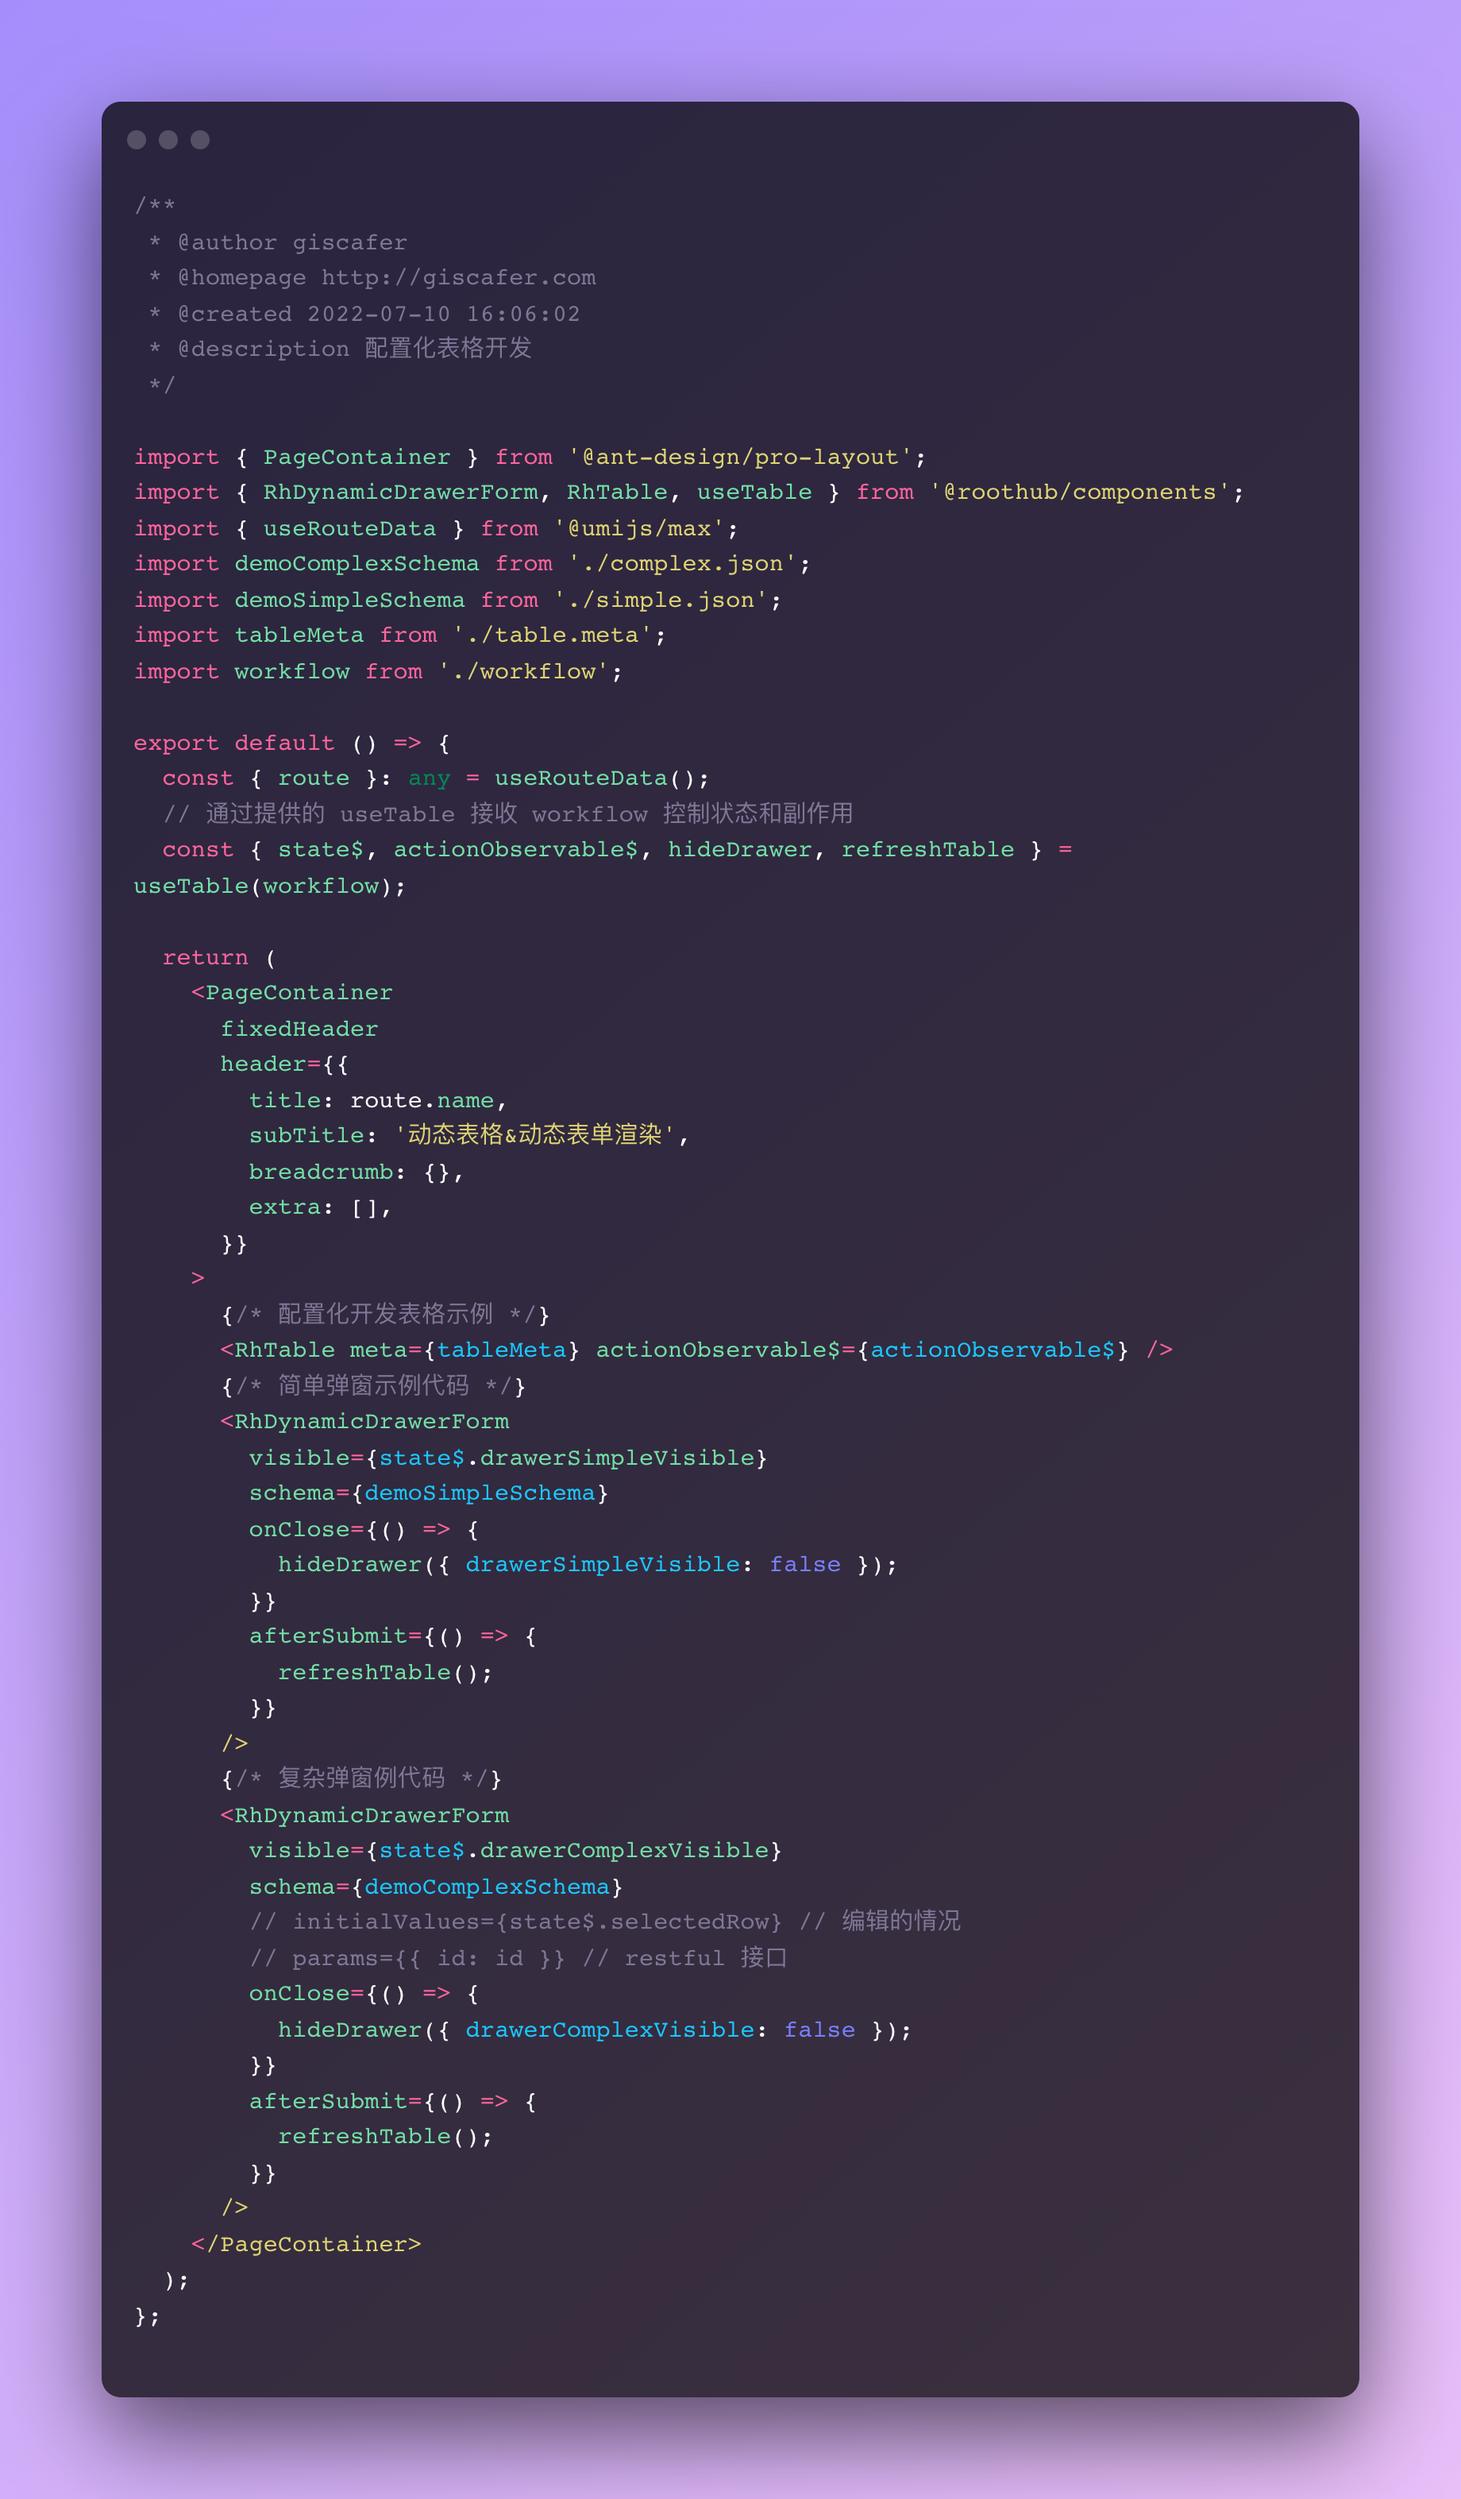
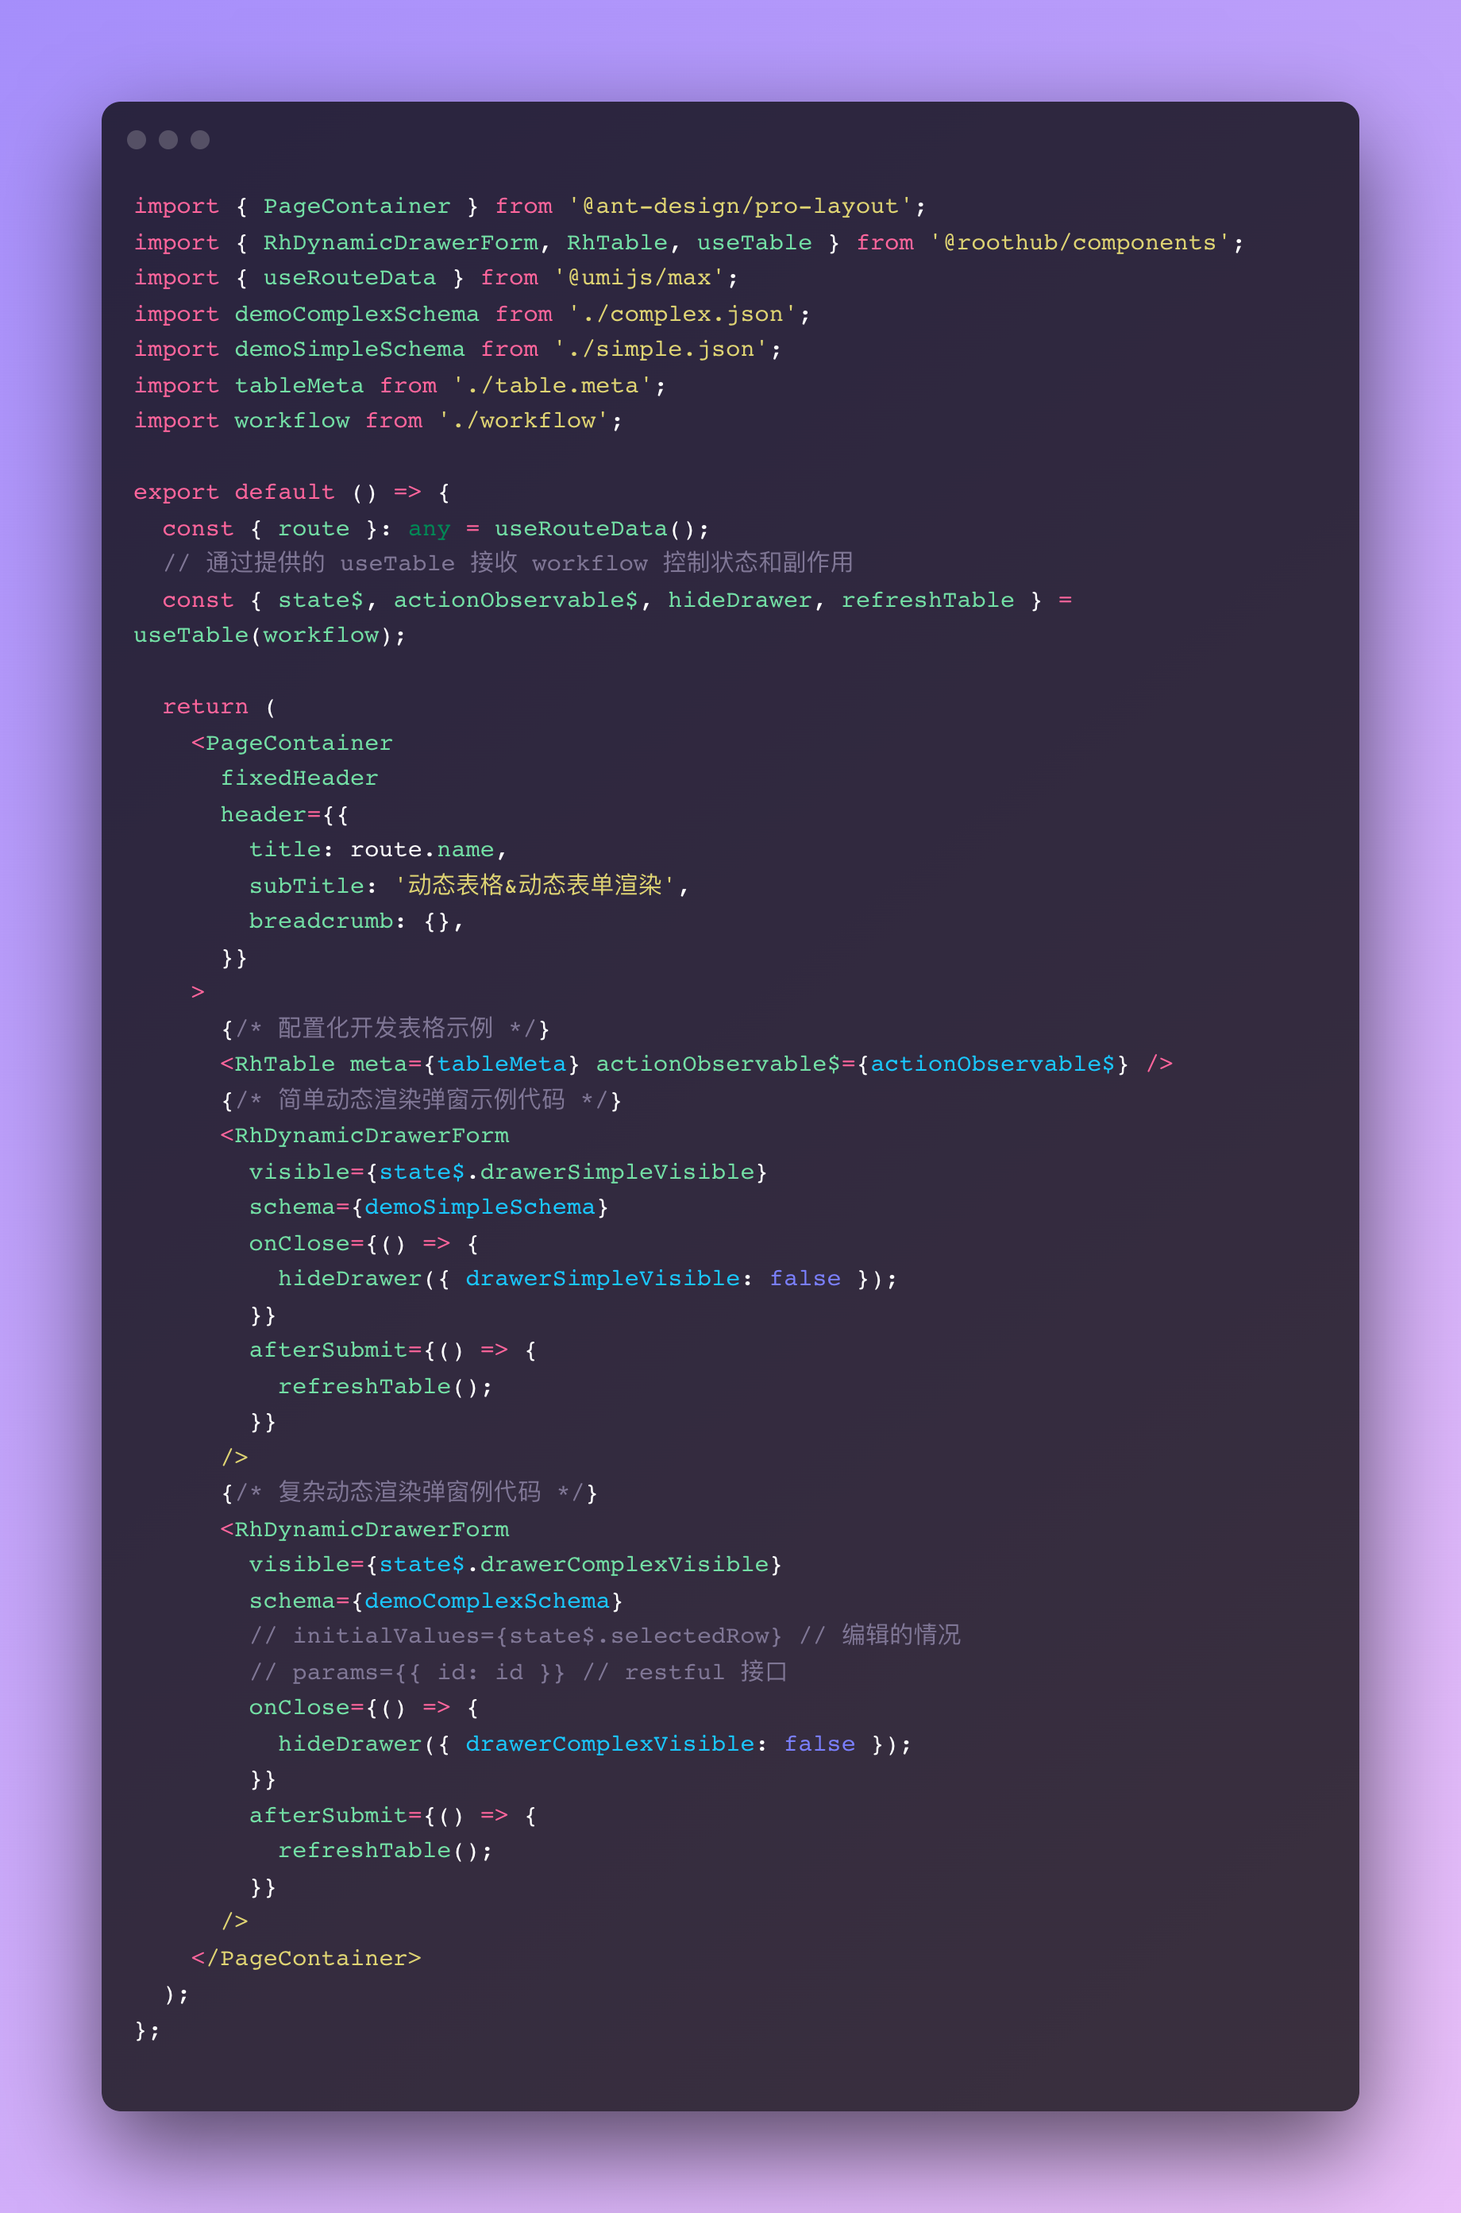
chore: docs

diff --git a/src/pages/table/meta/index.tsx b/src/pages/table/meta/index.tsx
@@ -25,12 +25,11 @@ export default () => {
         title: route.name,
         subTitle: '动态表格&动态表单渲染',
         breadcrumb: {},
-        extra: [],
       }}
     >
       {/* 配置化开发表格示例 */}
       <RhTable meta={tableMeta} actionObservable$={actionObservable$} />
-      {/* 简单弹窗示例代码 */}
+      {/* 简单动态渲染弹窗示例代码 */}
       <RhDynamicDrawerForm
         visible={state$.drawerSimpleVisible}
         schema={demoSimpleSchema}
@@ -41,7 +40,7 @@ export default () => {
           refreshTable();
         }}
       />
-      {/* 复杂弹窗例代码 */}
+      {/* 复杂动态渲染弹窗例代码 */}
       <RhDynamicDrawerForm
         visible={state$.drawerComplexVisible}
         schema={demoComplexSchema}

diff --git a/src/pages/table/meta/table.meta.ts b/src/pages/table/meta/table.meta.ts
@@ -73,14 +73,15 @@ const tableMeta: RhTableMeta = {
   optionActions: [
     {
       name: '外部链接',
-      action: 'view',
+      action: 'viewLink',
       link: '${html_url}', // 表示用row.html_url 赋值
       targetBlank: true,
     },
     {
-      name: '路由',
-      action: 'view',
-      link: '/dynamic/descriptions', // 如果要传参：'/dynamic/descriptions/${id}'，id 为当前row.id
+      name: '路由示例',
+      action: 'viewRoute',
+      // 传参场景举例：'/dynamic/descriptions/${id}'，id 为当前row.id
+      link: '/dynamic/descriptions',
     },
     { name: '复制', action: 'copy', isMore: true },
     { name: '删除', action: 'delete', isMore: true, danger: true },

diff --git a/README.md b/README.md
@@ -86,17 +86,17 @@ $ yarn dev
 - 在线 demo 页面：https://rh-umi.vercel.app/table/meta
 - 源码文件：https://github.com/giscafer/rh-template-umi/blob/main/src/pages/table/meta/index.tsx
 
-页面代码，逻辑和 UI 分离
+页面视图层代码，1、逻辑和 UI 分离；2、配置化开发表格，JSON 动态渲染表单（你没看错，整个页面就只有那么多 react tsx 代码）
 
 ![](./screenshots/page.png)
-
-workflow.ts 处理页面逻辑/副作用
-
-![](./screenshots/workflow.png)
 
 table-meta.ts 列表配置代码
 
 ![](./screenshots/table-meta.png)
+
+workflow.ts 处理页面逻辑/副作用
+
+![](./screenshots/workflow.png)
 
 ## License
 
